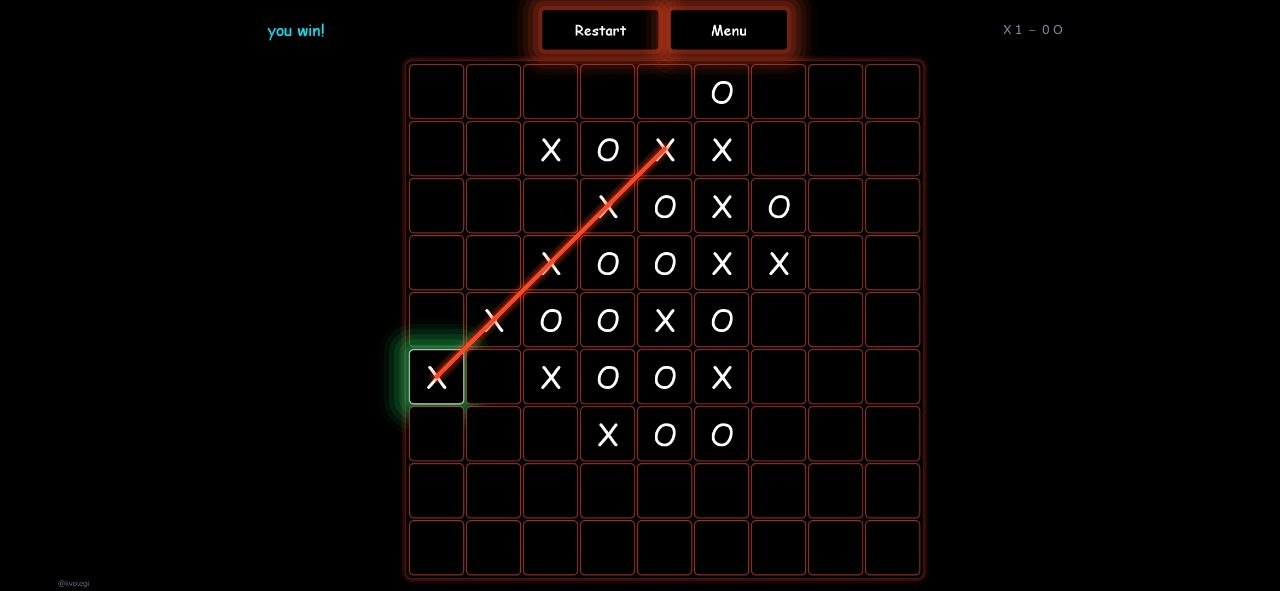
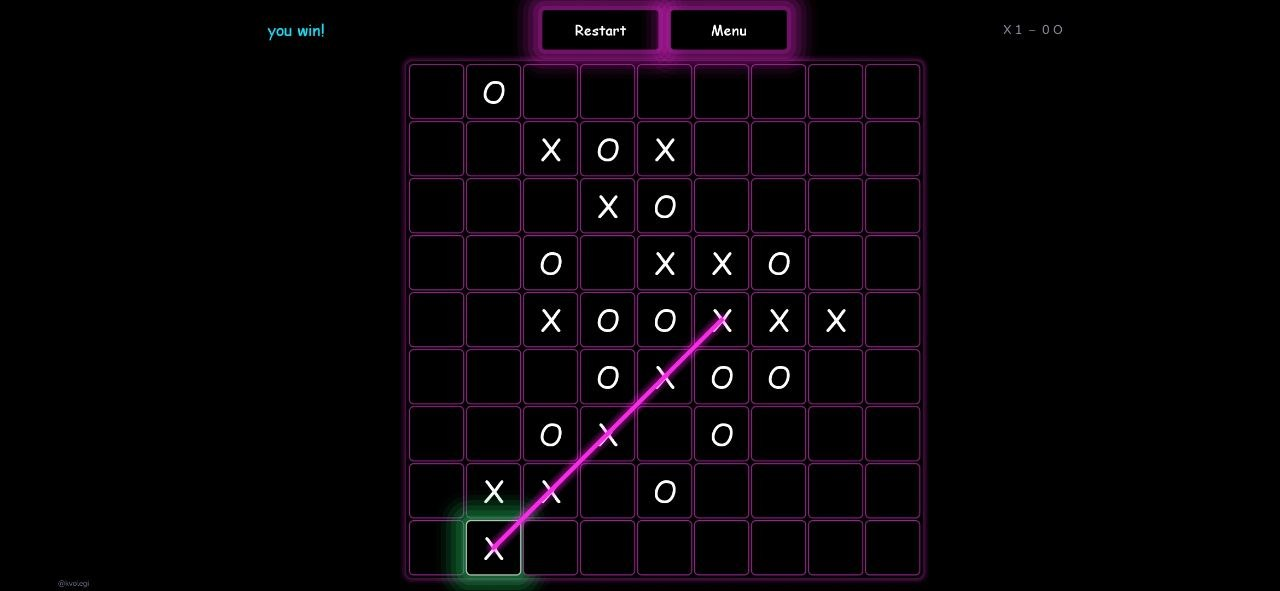
docs: use authentic Cyan APK Arcade Hub and high-contrast Magenta TicTacToe grid

Changed region(s): [[0.2812, 0.0, 0.7188, 1.0]]

diff --git a/README.md b/README.md
@@ -40,8 +40,8 @@ The suite bundles four complete arcade games with a shared Cyberpunk / Neon visu
 
 | Desktop Edition (macOS / Linux / Windows) | Mobile Edition (Android APK) |
 | :---: | :---: |
-| ![PC Arcade Hub](docs/screenshots/pc_arcade_hub.png) <br> *Main Arcade Hub (Red JavaFX Bloom)* | ![Mobile Tic Tac Toe Menu](docs/screenshots/mobile_arcade_hub.png) <br> *Tic Tac Toe Menu (Blue/Violet Native Android Glow)* |
-| ![PC Tic Tac Toe](docs/screenshots/pc_ttt_board.png) <br> *Adaptive Grid (5x5 → 7x7 → 10x10, Emerald Bloom)* | ![Mobile Tic Tac Toe](docs/screenshots/mobile_ttt_board.png) <br> *Tactical Grid (Amber/Gold Neon, Victory State)* |
+| ![PC Arcade Hub](docs/screenshots/pc_arcade_hub.png) <br> *Main Arcade Hub (Red JavaFX Bloom)* | ![Mobile Arcade Hub](docs/screenshots/mobile_arcade_hub.png) <br> *Main Arcade Hub (Electric Cyan Android Glow)* |
+| ![PC Tic Tac Toe](docs/screenshots/pc_ttt_board.png) <br> *Adaptive Grid (5x5 → 7x7 → 10x10, Emerald Bloom)* | ![Mobile Tic Tac Toe](docs/screenshots/mobile_ttt_board.png) <br> *Tactical Grid (Magenta Neon, 5-in-a-Row Victory Line)* |
 | ![PC Sigma Slots](docs/screenshots/pc_slots_game.png) <br> *20-Line Vegas Slots (Classic JavaFX Big Win)* | ![Mobile Sigma Slots](docs/screenshots/mobile_slots_game.png) <br> *20-Line Vegas Slots (Dynamic Rainbow Big Win)* |
 | ![PC Pay Table](docs/screenshots/pc_slots_paytable.png) <br> *High-Res Vegas Pay Table Modal (JavaFX)* | ![Mobile Audio Settings](docs/screenshots/mobile_settings.png) <br> *Dynamic Audio & Sound Settings (Android)* |
 | ![PC Beer Snake](docs/screenshots/pc_snake_game.png) <br> *Beer Snake Game Loop (Neon Green JavaFX)* | ![Mobile Beer Snake](docs/screenshots/mobile_snake_game.png) <br> *Beer Snake Level 2 (Ice Blue Neon Android)* |
